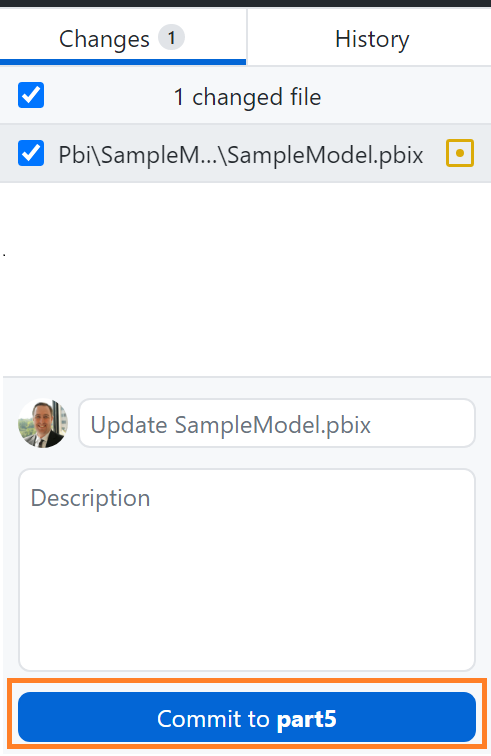
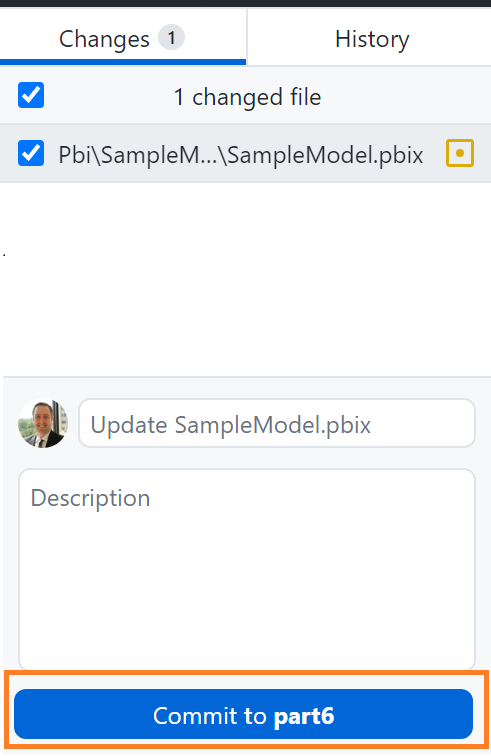
Updated Readme that had spelling errors

Changed region(s): [[0.0, 0.8823, 1.0, 1.0]]

diff --git a/README.md b/README.md
@@ -23,7 +23,7 @@ These instructions are a continuation from <a href="https://www.kerski.tech/brin
 
 -  <a href="https://docs.microsoft.com/en-us/cli/azure/install-azure-cli" target="_blank">Azure CLI</a> installed.
 
--  <a href="https://docs.microsoft.com/en-us/powershell/scripting/install/installing-powershell?view=powershell-5.1" target="_blank">Powershell 5.1</a> installed.  If you are using Windows 10 or 11, this should be installed already. For the purposes of the instructions I'm going to use PowerShell ISE to run a PowerShell script. 
+-  <a href="https://docs.microsoft.com/en-us/powershell/scripting/install/installing-powershell?view=powershell-5.1" target="_blank">PowerShell 5.1</a> installed.  If you are using Windows 10 or 11, this should be installed already. For the purposes of the instructions I'm going to use PowerShell ISE to run a PowerShell script. 
 
 -   <a href="https://desktop.github.com/" target="_blank">GitHub desktop</a> installed.
 
@@ -62,7 +62,7 @@ These instructions are a continuation from <a href="https://www.kerski.tech/brin
     ![Prompt for information in install script](./images/part5-enter-information.PNG)
 
 
-1. During the course of the install you will be prompted to enter your Microsoft 365 credentials. Depending on your environment you may have a browser tab appear to sign-in. After signing in you can return to the Powershell ISE window. In addition, if you don't have the Power BI Management Shell or Azure DevOps CLI package installed, you will be asked to install.  Please affirm you wish to install those packages if prompted.
+1. During the course of the install you will be prompted to enter your Microsoft 365 credentials. Depending on your environment you may have a browser tab appear to sign-in. After signing in you can return to the PowerShell ISE window. In addition, if you don't have the Power BI Management Shell or Azure DevOps CLI package installed, you will be asked to install.  Please affirm you wish to install those packages if prompted.
 
     ![Prompt to install azure devops cli](./images/part5-devops-cli-install.PNG)
 
@@ -103,7 +103,7 @@ With the [Installation Steps](#InstallationSteps) and [Priming the Pipeline](#Pr
 
 4. Copy the Username and Password to Notepad temporarily.
 
-5. Open GitHub Desktop and select clone reposistory (outlined in orange in the image below).
+5. Open GitHub Desktop and select clone repository (outlined in orange in the image below).
 
 <img src="./images/part5-clone-repository.PNG" alt="Clone the repository." width="400px"/>
 
@@ -115,7 +115,7 @@ With the [Installation Steps](#InstallationSteps) and [Priming the Pipeline](#Pr
 
  <img src="./images/part5-enter-credentials-git.PNG" alt="Prompt to enter credentials to clone repository." width="400px"/>
 
-8. Within GitHub Desktop switch the branch from main to 'origin/part6'.  I ask you to do this because in subsequent blog series, I'll have separate branches that will introduce new features that follow DataOps priniciples.
+8. Within GitHub Desktop switch the branch from main to 'origin/part6'.  I ask you to do this because in subsequent blog series, I'll have separate branches that will introduce new features that follow DataOps principles.
 
 ![Switch branch](./images/part5-switch-branch.PNG)
 
@@ -128,7 +128,7 @@ With the [Installation Steps](#InstallationSteps) and [Priming the Pipeline](#Pr
 
 ![Example to Update Model](./images/part5-update-model.PNG)
 
-11. Navigate back to GitHub Desktop and press "Commit to part5" (outlined in orange in the image below).
+11. Navigate back to GitHub Desktop and press "Commit to part6" (outlined in orange in the image below).
 
 <img src="./images/part5-commit-part5.PNG" alt="Example of Committing changes in GitHub Desktop" height="400px"/>
 
@@ -144,11 +144,11 @@ With the [Installation Steps](#InstallationSteps) and [Priming the Pipeline](#Pr
 
 ![Example of Pipeline in Progress](./images/part5-pipeline-in-progress.PNG)
 
-15. Once the pipeline completes you should get a "Build Succeed with Issues" noted by an amber icon with an exclamation mark (to demostrate a build with warnings).  You may also receive an email stating the pipeline successfully completed with issues.
+15. Once the pipeline completes you should get a "Build Succeed with Issues" noted by an amber icon with an exclamation mark (to demonstrate a build with warnings).  You may also receive an email stating the pipeline successfully completed with issues.
 
 ![Example of Warnings](./images/part6-warning-example.PNG)
 
-The Best Practice Analyzer will log warnings to Azure DevOps if an issue of Severity 2 is identified. Severity levels are defined in the Best Practices json file.
+The Best Practice Analyzer will log warnings to Azure DevOps if an issue of Severity 2 is identified. Severity levels are defined in the Best Practices JSON file.
 
 ## Example of Failed Pipeline Example
 
